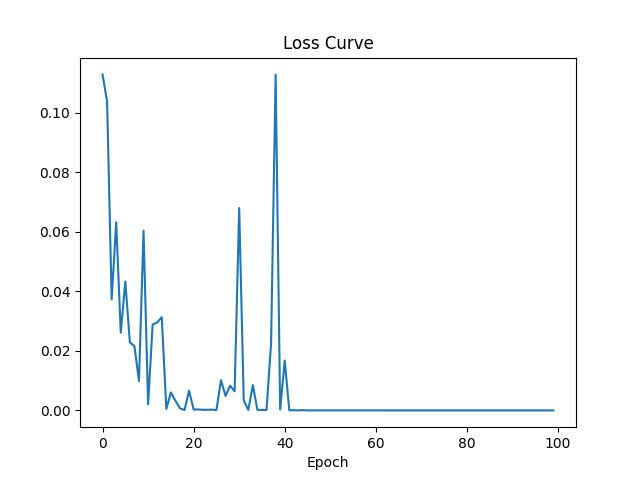
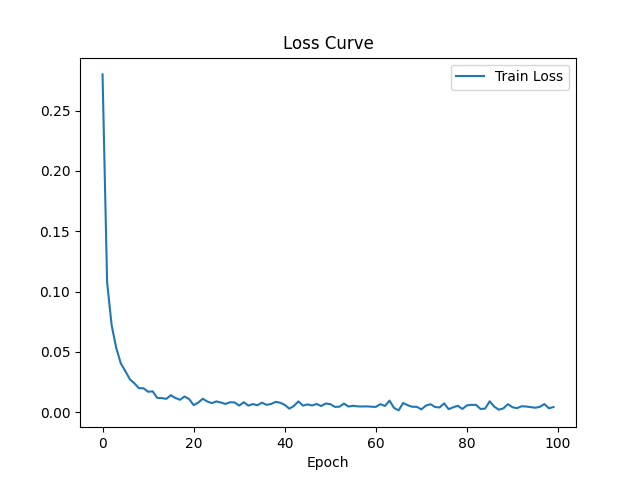
'acc可视化'

diff --git a/train.py b/train.py
@@ -2,6 +2,7 @@ import torch
 from torch import nn
 from torch import optim
 from dataset import train_loader
+from dataset import test_loader
 from model import MLP
 import matplotlib.pyplot as plt
 
@@ -17,15 +18,27 @@ model = MLP().to(device)
 criterion = nn.CrossEntropyLoss()
 optimizer = optim.Adam(model.parameters(),lr=0.001)
 train_losses = []
+accuracy = []
 
 def evaluate(dataloader,model):
-    for X,y in dataloader:
-        X, y = X.to(device), y.to(device)
-        outputs = model(X)
+    model.eval()
+    total = 0
+    correct = 0
+    with torch.no_grad():
+        for X,y in dataloader:
+            X, y = X.to(device), y.to(device)
+            outputs = model(X)
+            _,predicted = torch.max(outputs,dim = 1)
+            total += y.size(0)
+            correct += (predicted == y).sum().item()
+    acc = correct/total
+    return acc
 
 
-num_epoches = 100
-for epoch in range(num_epoches):
+num_epochs = 100
+for epoch in range(num_epochs):
+    model.train()
+    running_loss = 0.0
     for X,y in train_loader:
         X, y = X.to(device), y.to(device)
         optimizer.zero_grad()
@@ -33,16 +46,27 @@ for epoch in range(num_epoches):
         loss = criterion(outputs,y)
         loss.backward()
         optimizer.step()
-    train_losses.append(loss.item())
-    print(f'Epoch{epoch+1},Loss:{loss.item():.4f}')
+        running_loss += loss.item()*X.size(0)
+    accuracy.append(evaluate(test_loader,model))
+    epoch_loss = running_loss/len(train_loader.dataset)
+    train_losses.append(epoch_loss)
+    print(f'Epoch{epoch+1},Loss:{epoch_loss:.4f}')
         
 torch.save(model.state_dict(), 'mnist_MLP_model.pth')
 
+plt.figure()
 plt.plot(train_losses,label = 'Train Loss')
 plt.xlabel('Epoch')
 plt.title('Loss Curve')
-plt.legend
+plt.legend()
 plt.savefig('loss_curve.png')
+plt.show()
+
+plt.figure()
+plt.plot(accuracy,label = 'Accuracy')
+plt.xlabel('Epoch')
+plt.title('Accuracy Curve')
+plt.legend()
 
 plt.show()
 
